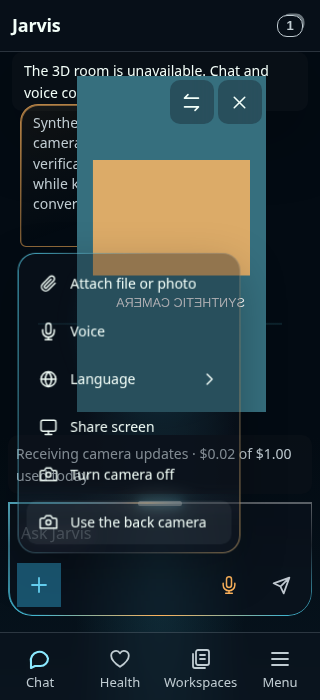
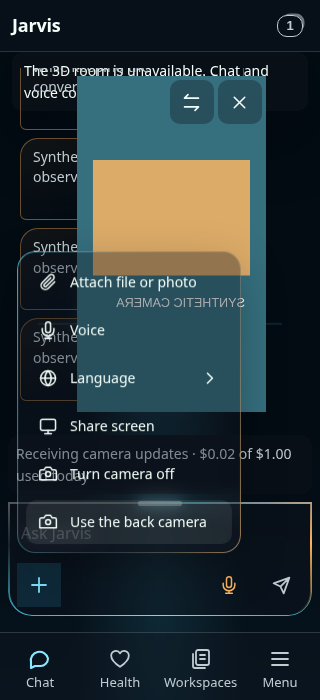
fix: show ongoing camera descriptions during typing silence

diff --git a/apps/web/src/vision-watch.ts b/apps/web/src/vision-watch.ts
@@ -33,13 +33,16 @@ export function formatWatchBudget(budget: WatchBudget | null): string {
   return `${usd(budget.usedUsd)} of ${usd(budget.limitUsd)} used today`;
 }
 
-function parseResult(value: unknown): WatchBudget {
+interface WatchResult { budget: WatchBudget; observationDelivered: boolean }
+
+function parseResult(value: unknown): WatchResult {
   if (typeof value === 'object' && value !== null && 'budget' in value) {
     const { budget } = value;
     if (typeof budget === 'object' && budget !== null && 'usedUsd' in budget && 'limitUsd' in budget &&
         typeof budget.usedUsd === 'number' && typeof budget.limitUsd === 'number' &&
         Number.isFinite(budget.usedUsd) && Number.isFinite(budget.limitUsd)) {
-      return { usedUsd: budget.usedUsd, limitUsd: budget.limitUsd };
+      return { budget: { usedUsd: budget.usedUsd, limitUsd: budget.limitUsd },
+        observationDelivered: 'speak' in value && typeof value.speak === 'string' && Boolean(value.speak.trim()) };
     }
   }
   throw new WatchRequestError('Jarvis returned an invalid watch response.', 502);
@@ -47,7 +50,7 @@ function parseResult(value: unknown): WatchBudget {
 
 async function postFrame(
   backendUrl: string, token: string, sessionId: string, source: 'screen' | 'camera', frame: string, feedId: string, signal: AbortSignal,
-): Promise<WatchBudget> {
+): Promise<WatchResult> {
   const response = await backendFetch(`${backendUrl.replace(/\/+$/u, '')}/vision/watch`, {
     method: 'POST',
     headers: { Authorization: `${['Bear', 'er'].join('')} ${token}`, 'Content-Type': 'application/json' },
@@ -86,6 +89,7 @@ export function useVisionWatch(
   source: 'screen' | 'camera',
   sessionId: string | null,
   onStopped?: (message: string) => void,
+  onObservationDelivered?: () => void,
 ): VisionWatchController {
   const [requested, setRequested] = useState(false);
   const [delivered, setDelivered] = useState(false);
@@ -97,7 +101,9 @@ export function useVisionWatch(
   const backendUrl = config.backendUrl;
   const tokenRef = useRef(getAccessToken);
   const stoppedRef = useRef(onStopped);
-  useEffect(() => { tokenRef.current = getAccessToken; stoppedRef.current = onStopped; }, [getAccessToken, onStopped]);
+  const observationRef = useRef(onObservationDelivered);
+  useEffect(() => { tokenRef.current = getAccessToken; stoppedRef.current = onStopped;
+    observationRef.current = onObservationDelivered; }, [getAccessToken, onStopped, onObservationDelivered]);
   const ready = sharing && Boolean(sessionId) && Boolean(captureFrame) && Boolean(config.backendUrl);
   const running = (source === 'camera' ? !ended : requested) && ready;
   const watching = running && (source === 'screen' || delivered);
@@ -135,9 +141,10 @@ export function useVisionWatch(
             const next = await postFrame(backendUrl, token, activeSession, source, frame, feedId, signal);
             if (signal.aborted) return;
             previous = frame;
-            setBudget(next);
-            if (next.usedUsd >= next.limitUsd) throw new WatchRequestError(
+            setBudget(next.budget);
+            if (next.budget.usedUsd >= next.budget.limitUsd) throw new WatchRequestError(
               'Video stopped: the daily vision budget is exhausted. Enable video after the next UTC day begins.', 429);
+            if (next.observationDelivered) observationRef.current?.();
             setDelivered(true);
             clearTimeout(freshnessTimer);
             freshnessTimer = setTimeout(() => setDelivered(false), WATCH_FRESHNESS_MS);

diff --git a/apps/web/src/ConversationHistory.test.tsx b/apps/web/src/ConversationHistory.test.tsx
@@ -1441,6 +1441,46 @@ describe('ConversationHistory', () => {
     expect(camera.inspect).not.toHaveBeenCalled();
   });
 
+  it('shows repeated persisted camera observations during silence without disturbing the draft', async () => {
+    const accepts: ((response: Response) => void)[] = [];
+    vi.stubGlobal('fetch', vi.fn((_url: string, init: RequestInit) => init.method === 'DELETE'
+      ? Promise.resolve(new Response(null, { status: 204 }))
+      : new Promise<Response>(resolve => { accepts.push(resolve); })));
+    const camera: CameraController = {
+      sharing: true, starting: false, inspecting: false, error: '',
+      start: vi.fn(async () => {}), stop: vi.fn(), inspect: vi.fn(),
+      captureFrame: vi.fn(async () => 'AAAA'),
+    };
+    renderConversation(0, camera);
+    await waitFor(() => expect(accepts).toHaveLength(1));
+    const input = screen.getByRole('textbox', { name: 'Message Jarvis' });
+    fireEvent.change(input, { target: { value: 'Unsent draft' } });
+    input.focus();
+    const observation = { ...message, id: '99', text: 'The blue cup is now on the table.' };
+    loadConversationHistory.mockResolvedValue({ messages: [message, observation], nextCursor: null });
+    await act(async () => { accepts[0]!(new Response(JSON.stringify({
+      summary: 'A cup', speak: observation.text, budget: { usedUsd: 0.01, limitUsd: 1 },
+    }))); });
+    expect(await screen.findByText(observation.text)).not.toBeNull();
+    const transcript = screen.getByLabelText('Conversation history');
+    Object.defineProperty(transcript, 'scrollHeight', { configurable: true, value: 1200 });
+    Object.defineProperty(transcript, 'clientHeight', { configurable: true, value: 300 });
+    transcript.scrollTop = 100;
+    fireEvent.scroll(transcript);
+    await waitFor(() => expect(accepts).toHaveLength(2), { timeout: 4_000 });
+    const next = { ...observation, id: '100', text: 'A hand moves the cup to the left.' };
+    loadConversationHistory.mockResolvedValue({ messages: [message, observation, next], nextCursor: null });
+    await act(async () => { accepts[1]!(new Response(JSON.stringify({
+      summary: 'Moved cup', speak: next.text, budget: { usedUsd: 0.02, limitUsd: 1 },
+    }))); });
+    expect(await screen.findByText(next.text)).not.toBeNull();
+    expect(screen.getAllByText(observation.text)).toHaveLength(1);
+    expect(transcript.scrollTop).toBe(100);
+    expect((input as HTMLTextAreaElement).value).toBe('Unsent draft');
+    expect(document.activeElement).toBe(input);
+    expect(sendChatTurn).not.toHaveBeenCalled();
+  });
+
   it('shares pending camera session startup with a typed turn instead of creating two sessions', async () => {
     let finish!: (value: typeof session) => void;
     createChatSession.mockImplementationOnce(() => new Promise((resolve) => { finish = resolve; }));

diff --git a/apps/web/src/vision-watch.test.tsx b/apps/web/src/vision-watch.test.tsx
@@ -5,14 +5,15 @@ import { useVisionWatch, WATCH_INTERVAL_MS, WATCH_FRESHNESS_MS } from './vision-
 const config = { ...__JARVIS_CONFIG__, backendUrl: 'https://api.example.com/' };
 const getToken = async () => 'fixture-token';
 
-function Harness({ sharing, sessionId, captureFrame, onStopped, source = 'screen' }: {
+function Harness({ sharing, sessionId, captureFrame, onStopped, onObservationDelivered, source = 'screen' }: {
   source?: 'screen' | 'camera';
   sharing: boolean;
   sessionId: string | null;
   captureFrame: () => Promise<string>;
   onStopped?: (message: string) => void;
+  onObservationDelivered?: () => void;
 }) {
-  const watch = useVisionWatch(config, getToken, { sharing, captureFrame }, source, sessionId, onStopped);
+  const watch = useVisionWatch(config, getToken, { sharing, captureFrame }, source, sessionId, onStopped, onObservationDelivered);
   return (
     <section>
       <button type="button" onClick={watch.start}>Start</button>
@@ -41,6 +42,30 @@ afterEach(() => {
 });
 
 describe('useVisionWatch', () => {
+  it('notifies for each delivered observation, but not quiet frames or late stopped responses', async () => {
+    vi.useFakeTimers();
+    const onObservationDelivered = vi.fn();
+    let accept!: (response: Response) => void;
+    vi.stubGlobal('fetch', vi.fn((_url: string, init: RequestInit) => init.method === 'DELETE'
+      ? Promise.resolve(new Response(null, { status: 204 }))
+      : new Promise<Response>(resolve => { accept = resolve; })));
+    render(<Harness source="camera" sharing sessionId="42" captureFrame={async () => 'AAAA'}
+      onObservationDelivered={onObservationDelivered} />);
+    await tick(0);
+    await act(async () => { accept(ok(0.01)); });
+    expect(onObservationDelivered).not.toHaveBeenCalled();
+    const observation = () => new Response(JSON.stringify({ speak: 'The same cup.', budget: { usedUsd: 0.02, limitUsd: 1 } }));
+    for (let i = 0; i < 2; i++) {
+      await tick();
+      await act(async () => { accept(observation()); });
+    }
+    expect(onObservationDelivered).toHaveBeenCalledTimes(2);
+    await tick();
+    await click('Stop');
+    await act(async () => { accept(observation()); });
+    expect(onObservationDelivered).toHaveBeenCalledTimes(2);
+  });
+
   it('automatically delivers repeated camera frames after silence, confirms acceptance, and aborts on session change', async () => {
     vi.useFakeTimers();
     let accept: ((response: Response) => void) | undefined;

diff --git a/apps/web/src/ConversationHistory.tsx b/apps/web/src/ConversationHistory.tsx
@@ -282,7 +282,8 @@ export function ConversationHistory({
   const [voiceActive, setVoiceActive] = useState(false);
   const stopCamera = camera?.stop;
   const cameraStopped = useCallback((message: string) => { stopCamera?.(); setTurnError(message); }, [stopCamera]);
-  const cameraWatch = useVisionWatch(config, watchToken, camera, 'camera', voiceActive ? null : session?.id ?? null, cameraStopped);
+  const refreshCameraObservations = useCallback(() => setReload(value => value + 1), []);
+  const cameraWatch = useVisionWatch(config, watchToken, camera, 'camera', voiceActive ? null : session?.id ?? null, cameraStopped, refreshCameraObservations);
   useEffect(() => {
     if (!camera?.sharing || voiceActive || session) return;
     let cancelled = false;

diff --git a/docs/ui/screenshots/1317/fixtures/browser.py b/docs/ui/screenshots/1317/fixtures/browser.py
@@ -10,13 +10,14 @@ with sync_playwright() as p:
   errors=[];page.on('pageerror',lambda e:errors.append(str(e)))
   page.route('**/src/useSignIn.ts',lambda r:r.fulfill(content_type='application/javascript',body="const token=async()=> 'synthetic'; const session={state:'signed-in',profile:{name:'Synthetic QA'},message:'',getAccessToken:token,getEntraAccessToken:token,hasOwnerSession:true,client:{getActiveAccount:()=>({homeAccountId:'synthetic'}),getAllAccounts:()=>[]},signIn:async()=>{},switchAccount:async()=>{},signOut:async()=>{},signOutAllDevices:async()=>{}}; export function useSignIn(){return session;}"))
   frames=[]
+  observations=[]
   exhausted=False
   stall=False
   held=[]
   def respond(r):
    u=r.request.url
    msg={'id':'42','sessionId':'41','channel':'voice','language':'en','role':'jarvis','text':'Synthetic conversation for camera and menu verification. Move the preview while keeping the conversation visible.','model':None,'voiceMinutes':None,'at':'2026-10-26T06:00:00.000Z','toolCalls':[]}
-   data={'messages':[msg],'nextCursor':None} if '/conversation/history' in u else {}
+   data={'messages':[msg]+observations,'nextCursor':None} if '/conversation/history' in u else {}
    if '/workspaces' in u:data={'items':[]}
    if '/workspace/pins' in u:data={'pins':[]}
    if '/jobs' in u:data={'jobs':[]}
@@ -27,7 +28,11 @@ with sync_playwright() as p:
    if '/vision/watch' in u:
     if r.request.method=='POST' and stall:held.append(r);return
     if r.request.method=='POST' and exhausted:r.fulfill(status=429,json={'error':'The daily vision budget is exhausted.'});return
-    if r.request.method=='POST':frames.append(r.request.post_data_json);data={'summary':'Synthetic scene','speak':None,'budget':{'usedUsd':0.01,'limitUsd':1}}
+    if r.request.method=='POST':
+     frames.append(r.request.post_data_json)
+     observation={**msg,'id':str(100+len(frames)),'text':f'Synthetic ongoing observation {len(frames)}.'}
+     observations.append(observation)
+     data={'summary':'Synthetic scene','speak':observation['text'],'budget':{'usedUsd':0.01,'limitUsd':1}}
     else:r.fulfill(status=204);return
    r.fulfill(json=data)
   page.route('http://fixture.invalid/**',respond)
@@ -70,6 +75,9 @@ with sync_playwright() as p:
   picture=page.locator('.camera-preview-picture');picture.wait_for();page.wait_for_timeout(600)
   page.wait_for_timeout(5800)
   assert len(frames)>=3, len(frames)
+  for observation in observations[:3]:
+   page.get_by_text(observation['text'],exact=True).wait_for()
+   assert page.get_by_text(observation['text'],exact=True).count()==1
   stall=True
   page.locator('.composer-feedback').get_by_text('Camera updates delayed; retrying…',exact=True).wait_for(timeout=25000)
   assert len(held)==1
@@ -112,7 +120,7 @@ with sync_playwright() as p:
   assert page.locator('.camera-preview video').evaluate('v=>v.srcObject===null')
   assert len(frames)==count
   assert not errors, errors
-  results.append({'width':width,'height':height,'touch':touch,'framesDuringSilence':count,'framesAfterStop':len(frames)-count,'errors':errors})
+  results.append({'width':width,'height':height,'touch':touch,'framesDuringSilence':count,'visibleObservationsDuringSilence':len(observations[:3]),'framesAfterStop':len(frames)-count,'errors':errors})
   page.close()
  b.close()
 (out/'measurements.json').write_text(json.dumps(results,indent=2))

diff --git a/docs/architecture.md b/docs/architecture.md
@@ -5905,7 +5905,7 @@ P7-05, P7-08 and P7-38 reuse that Foundry endpoint, backend managed identity and
 
 ### Continuous vision watching (P7-38; unified camera #1317)
 
-Dan-only `POST /vision/watch` accepts `{ sessionId, source: 'screen' | 'camera', frame, feedId? }` and returns `{ summary, speak, budget }`. The camera hook starts automatically when capture and an active session are available, awaits each response and then delays 2.6 seconds; screen watching remains explicitly toggled and skips duplicate frames. Camera confirmation requires an accepted response. Typed mode creates its conversation session on camera enable; voice owns delivery only for its active session. Each loop has an abort controller and generation UUID. Authenticated `DELETE /vision/watch` with session/source/feedId invalidates only the matching generation, clears instructions and prevents late narration. Cleanup is best effort on disconnect; feed-status evidence expires after 15 seconds without arrivals. Frame requests have a 35-second client timeout. Existing JPEG validation, budgets and in-memory byte cleanup remain.
+Dan-only `POST /vision/watch` accepts `{ sessionId, source: 'screen' | 'camera', frame, feedId? }` and returns `{ summary, speak, budget }`. The camera hook starts automatically when capture and an active session are available, awaits each response and then delays 2.6 seconds; screen watching remains explicitly toggled and skips duplicate frames. Camera confirmation requires an accepted response. In typing mode, a response reporting delivered speech refreshes persisted conversation history; quiet frames do not reload it. Existing ID-based merging, draft/focus and reader scroll-follow behavior are retained. Typed mode creates its conversation session on camera enable; voice owns delivery only for its active session. Each loop has an abort controller and generation UUID. Authenticated `DELETE /vision/watch` with session/source/feedId invalidates only the matching generation, clears instructions and prevents late narration. Cleanup is best effort on disconnect; feed-status evidence expires after 15 seconds without arrivals. Frame requests have a 35-second client timeout. Existing JPEG validation, budgets and in-memory byte cleanup remain.
 
 `watch_for` records instructions and optional `continuousDescription`; its result separates instructionsSaved from cameraFeed/screenFeed receiving or unconfirmed. The shared chat/voice capability prompt maps keep-describing requests to this flag. The vision prompt allows routine and unchanged-scene descriptions only when explicitly requested. Per-source instruction revisions suppress obsolete in-flight commentary after stop. Busy voice narration is dropped, while ordinary alerts retain chat fallback. No raw video, stored frames, new provider or credentials. Camera video no longer stops solely because user messages stop. User-requested start/stop reuses acknowledged workspace show/session camera commands with existing permission checks.
 

diff --git a/docs/ui/screenshots/1317/README.md b/docs/ui/screenshots/1317/README.md
@@ -123,3 +123,15 @@ tests. All-workspace lint/build and Python Ruff/929 tests/byte compilation passe
 The aggregate exited successfully at 15:06 UTC. No local check failed on the
 combined production tree. Hosted exact-head qualification follows readiness;
 reviewed integration authorization does not bypass required checks or policies.
+
+## Review correction: visible typing narration
+
+Automated review found that persisted watch descriptions were not surfaced during
+silence. A successful response with delivered speech now triggers typing history
+refresh, using the existing ID-based merge and reader scroll-follow behavior.
+Quiet responses do not reload history; aborted/stopped responses do not notify.
+Regression coverage includes two visible descriptions without another user turn,
+no duplicates, unchanged unsent draft/focus and preserved older-history position.
+The browser fixture now checks multiple visible synthetic ongoing descriptions,
+rather than inferring visible narration from frame POST counts. Live model
+natural-language intent selection remains unverified.
